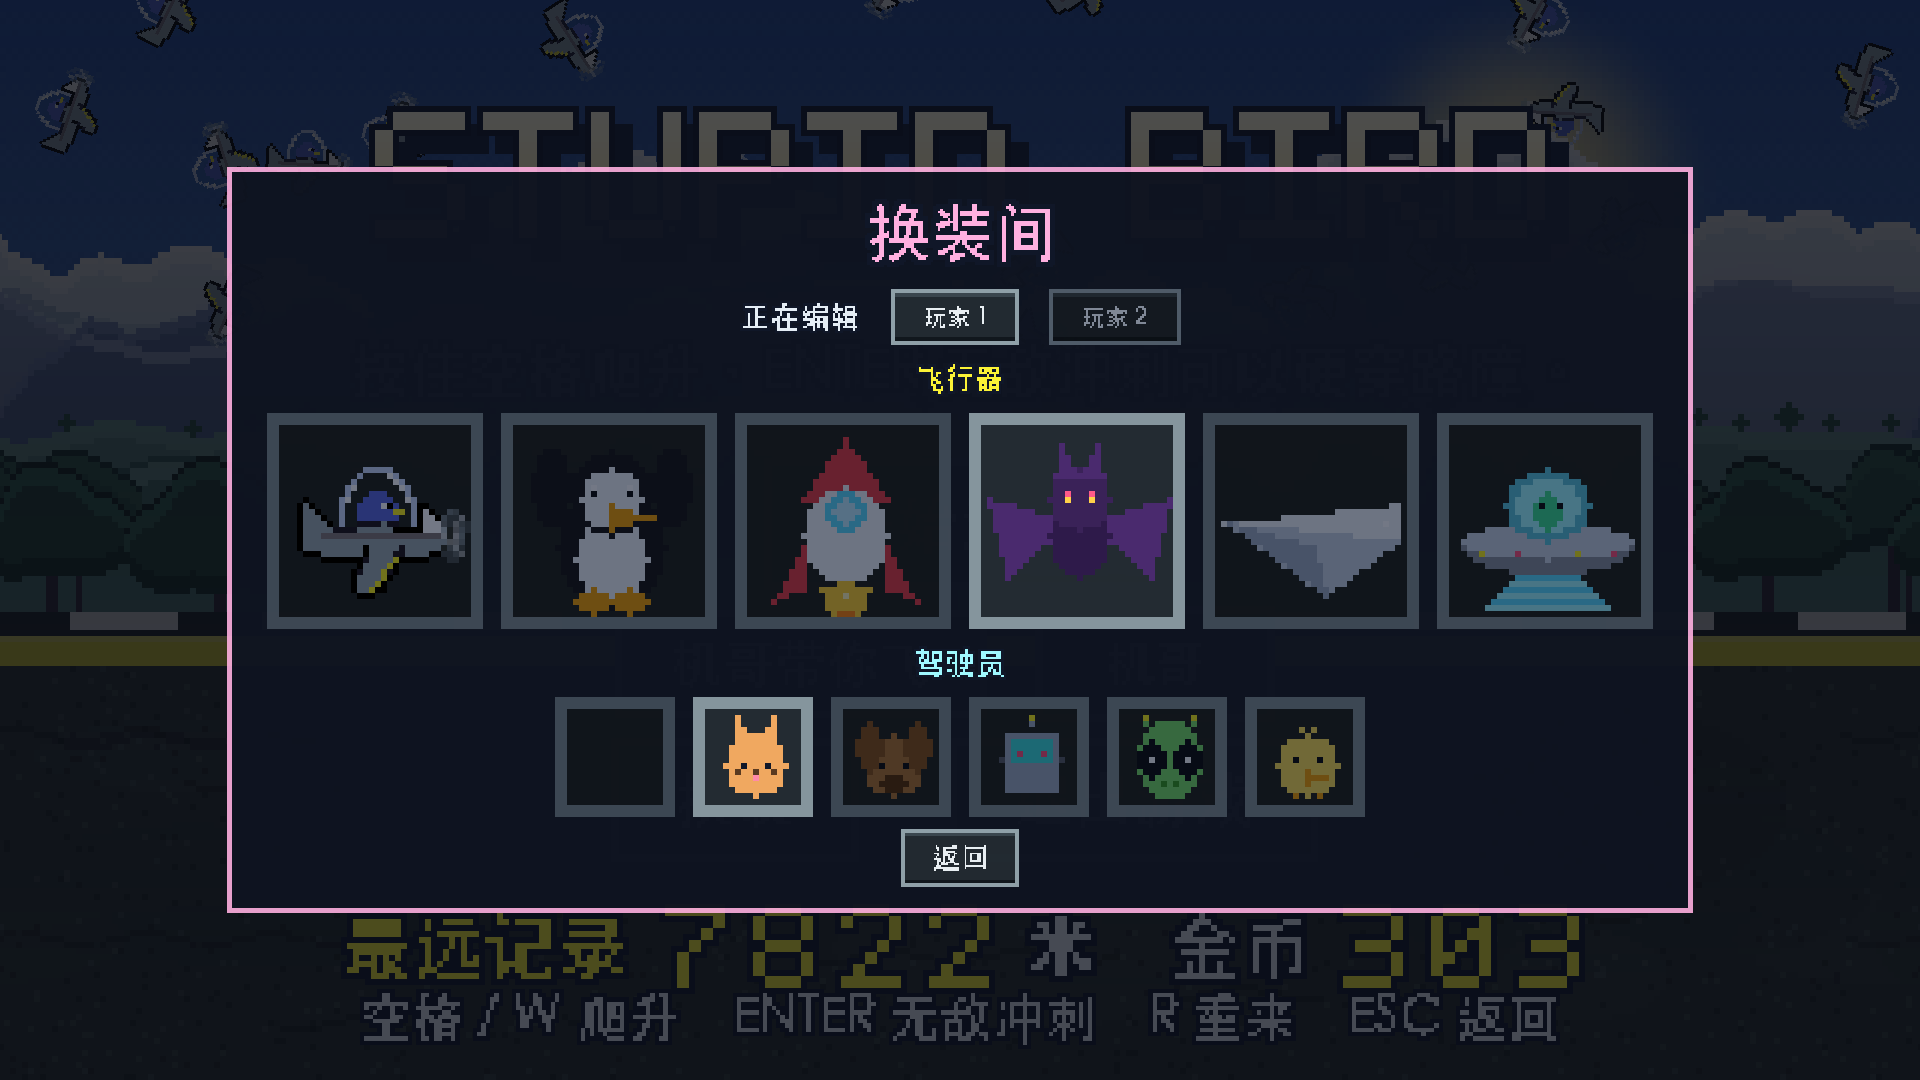
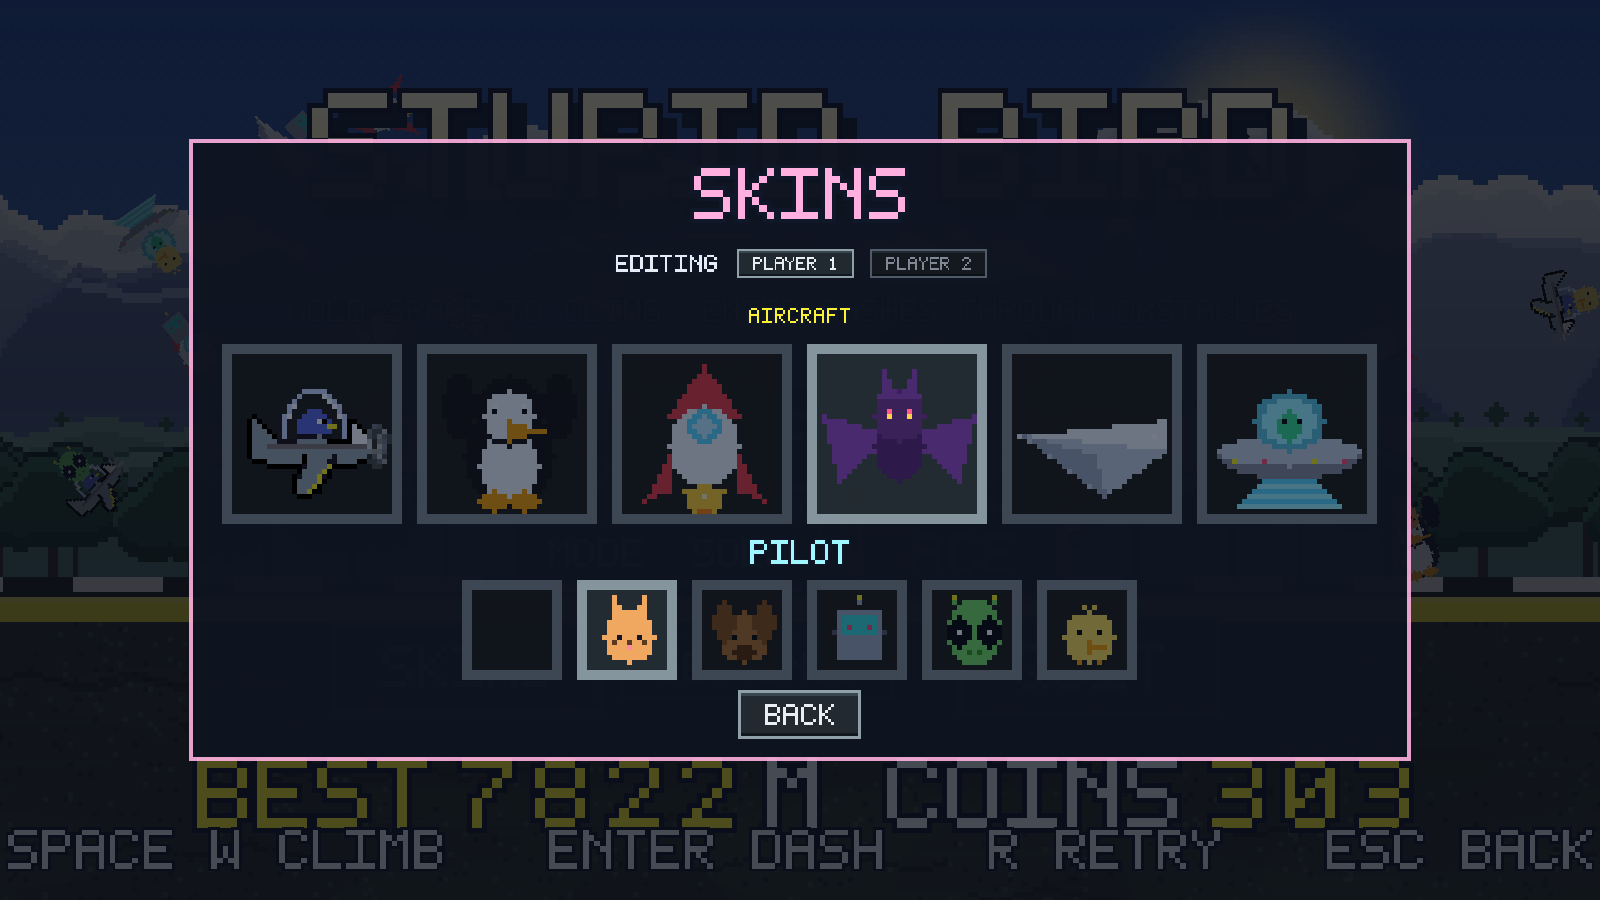
重新截取全部界面截图；README 与 CHANGELOG 改为中性表述
截图
  九张全部按当前版本重截：开始菜单（英文）、开局、无敌冲刺、结算、
  六个世界拼图、双人合作、皮肤面板、道具与连击、双人分屏
  反映了这一版的界面变化：连击与道具移到左下角（不再压住事件横幅）、
  两条能量条各挂 P1/P2 编号牌、皮肤面板、英文界面

README
  删掉「开发中修掉的坑」整节，以及若干以复盘口吻写的小节
  保留的小节改成中性标题与行文（如「金币的走廊范围」「天空为什么放在世界里」）

CHANGELOG
  v0.9.1 的两条修复改为陈述事实，去掉改动过程的叙述

diff --git a/README.md b/README.md
@@ -65,7 +65,7 @@
 
 **提前量**是机哥最关键的改动：不是盯着"现在最近的那根柱子"，而是按当前速度算
 "再过 lookahead 秒我会飞到哪"，据此选目标。飞行器升力很强、但降下来只能靠重力，
-所以必须提前开始改高度 —— 以前它永远在追着缝隙跑，看起来就很笨。
+所以必须提前开始改高度，否则会一直追着缝隙跑。
 
 机哥头顶挂的是 **AI** 标志（双人模式才是 P2）。真人倒地时它会进入「认真模式」，
 有概率跳过下一次失误 —— 这就是"臭人机偶尔也能把人救回来"的来源。
@@ -252,9 +252,9 @@ export_presets.cfg      Windows / macOS 导出预设
 
 ## 实现要点
 
-几个值得说明的设计决定，都是踩过坑之后改的。
+几个值得说明的设计决定。
 
-### 视差为什么没用内置的 `Parallax2D`
+### 视差为什么自己实现
 
 `Parallax2D` 工作在 `CanvasLayer` 的**屏幕空间**里。本作的地平线必须和地面碰撞面在**世界坐标**中永远对齐，而相机是垂直钉死的——用内置节点会出现山脊和地面错位、缝隙处露出天空。
 
@@ -264,7 +264,7 @@ export_presets.cfg      Windows / macOS 导出预设
 position.x = camera_center.x * (1.0 - scroll_factor) + auto_offset
 ```
 
-另外一个容易踩的坑：铺砖位置必须用 `camera.get_screen_center_position()`，**不能用 `camera.global_position`**。后者不含 offset / 平滑 / drag 的影响，曾经导致画面左侧整块图层缺失。
+铺砖位置必须用 `camera.get_screen_center_position()`，**不能用 `camera.global_position`**。后者不含 offset / 平滑 / drag 的影响，否则画面左侧会缺一整块图层。
 
 ### 无限地面
 
@@ -288,7 +288,7 @@ position.x = camera_center.x * (1.0 - scroll_factor) + auto_offset
 
 `process_mode = PROCESS_MODE_ALWAYS` 让结算面板暂停整棵树时音乐照常。
 
-### 金币为什么一定要算走廊
+### 金币的走廊范围
 
 最早金币是「固定铺在路障前方 260 像素」，5 枚跨度 600 像素，尾巴直接扎进柱子里——那几枚金币看得见、吃不到，而且玩家为了够到它们会主动撞柱。
 
@@ -302,7 +302,7 @@ capacity = int(width / 间距) + 1        # 放不下就少放，绝不超过走
 
 走廊宽度随速度变化（间隔按时间算，速度一变间隔就变），所以金币数量是**自适应**的：慢的时候 2 枚，快的时候 4~5 枚，但永远在两柱之间的空气里。
 
-### 无敌冲刺为什么不改碰撞层
+### 无敌冲刺的判定方式
 
 最直觉的做法是冲刺时把玩家的 `collision_layer` 改掉——但金币是靠玩家的 layer 1 来判定的，动了碰撞层会连金币一起废掉。所以判定拦在关卡这一层：
 
@@ -315,19 +315,7 @@ func _on_obstacle_hit() -> void:
 
 金色本身则是一段 `canvas_item` 着色器，把小鸟贴图的**亮度重新映射**成金属色，而不是直接 `modulate` 一个金色——后者会把蓝鸟压成泥巴色。整套效果零额外贴图、零换帧，也不会碰到判定盒。
 
-### 双人模式里玩家之间不能碰撞
-
-二号机刚接进来的时候比一号机快 1.8 倍，原因很反直觉：两个 `CharacterBody2D` 互相碰撞，
-二号机落在了队友头上，而 Godot 会把"脚下这块会动的平台"的速度**叠加**到角色自己的速度上，
-于是复利式加速，两个人越跑越快。
-
-修法是把地面单独放到物理第 2 层，玩家的 `collision_mask` 只认这一层，玩家之间自然互不碰撞。
-路障 / 金币 / 传送门的 `collision_mask` 仍然是 1，判定完全不受影响。
-
-（同一个坑还差点漏掉：一号机的 6 倍像素放大是 `main.tscn` 里的**实例覆盖**，
-`instantiate()` 出来的二号机必须手动抄过来，否则是一只 1 倍大的迷你鸟。）
-
-### 天空为什么从 CanvasLayer 搬进世界
+### 天空为什么放在世界里
 
 天空原本是 `CanvasLayer` 里的一张全屏 `TextureRect` —— 这在单画面下没问题，
 但分屏用的 `SubViewport` 只共享 `world_2d`，**`CanvasLayer` 是属于视口自己的**，
@@ -340,57 +328,7 @@ func _on_obstacle_hit() -> void:
 但它只按**主相机**铺砖，而分屏时子相机会偏出上千像素 —— 所以又加了
 `coverage_margin`，天空左右各多铺 2400 像素。
 
-### 分屏时"靠后那个人看不到东西"
-
-关卡生成、地面回收、视差铺砖，原本全部以**主相机**（两人重心）为基准。
-分屏之后靠后的那名玩家可能离重心一千多像素，于是：
-
-- 视差条带铺不到那么远 → 背景和地面出现空洞
-- `course.gd` 的回收线在重心后方 800 像素，靠后玩家身后的柱子早被回收了
-- 生成线只到重心前方一屏，靠前玩家前方也可能空掉
-
-修法是在 `camera.gd` 上放一个 `view_spread`（分屏时 = 两人间距的一半），
-让 `course.gd` / `road.gd` 按它加宽生成与回收范围；视差条带则统一给了 3000 像素的
-`coverage_margin`。不分屏时 `view_spread` 是 0，行为和以前完全一致。
-
-### 相机的一个漂移 bug
-
-`_focus()` 在"一个存活目标都没有"时返回自己的 `global_position`，
-而调用方随后还会再加一次 `follow_offset` —— 于是相机每帧往右挪一个 `follow_offset`，
-自己一路飘走。修法是返回 `global_position - follow_offset`。
-
-这个 bug 在分屏里才暴露出来（子相机只有一个目标，那人一倒地就触发），
-但其实主相机也有，只是平时一人倒地整局就结算暂停了，看不出来。
-
-### 双人模式里"重心跳变"要平滑
-
-相机跟两名玩家的重心。一个人倒地时，`_focus()` 会把他从存活列表里剔除 ——
-重心于是从"两人平均"瞬间变成"只剩活着的那个"，这是几百像素的瞬移，看起来就是视角被人猛拽了一下。
-
-第一版用的是阈值法（跳变超过 150 像素才平滑）。加了 x 轴身位偏移之后这个阈值就失效了：
-一个人倒地时重心只会挪**半个身位 ≈ 85 像素**，刚好落在阈值以下，于是照样瞬移。
-
-现在改成**始终对重心做一阶低通**（`FOCUS_SMOOTH = 13`），不再有阈值可漏。
-关键区别是：平滑的是**目标点**而不是相机自身，所以稳态只是一个固定的小偏移
-（最高速时 `v / 13 ≈ 76` 像素），不会像早期那样累积成几千像素的滞后。
-
-实测：倒地 + 复活整个过程的相机单帧最大位移 **11.00 像素**，和稳态巡航一模一样
-（660 px/s ÷ 60 = 11.0），也就是说过渡在帧级别上完全看不出来。
-
-### 无敌判定只拦一处会漏
-
-原来"无敌冲刺期间不判死"是写在 `course._on_obstacle_hit()` 里的。
-加了陨石雨事件之后这条路就漏了 —— 陨石是 `events` 直接发信号给 `main` 的，根本不经过 `course`。
-现在判定挪到 `main._on_player_hit()` 的开头，所有伤害来源都从这里过。
-
-### 皮肤的图集必须是原生分辨率
-
-飞行器是 64x64 的 4 帧图集，视觉上那层 6 倍放大在 `main.tscn` 的实例上（和原来的
-`bird_blue.png` 一致）。第一次生成时顺手用了 `save()`，它会把图放大 6 倍存成 384x384，
-而引擎仍按 32 像素切图 —— 结果只切到左上角一小块，换完皮肤**整只鸟直接不见了**。
-所以 `gen_skins.py` 里专门分了 `save_raw()`：图集和驾驶员原生存盘，只有菜单预览方块才放大。
-
-### 开始界面为什么是 25 只真物理小鸟
+### 开始界面的 25 只小鸟
 
 原来只有一只贴图小鸟做匀速正弦上下浮动——一眼就能看出是个来回播的动画。现在换成 25 只 `RigidBody2D`：出生在画面之上（`y` 全为负，是真的"从天而降"），随机初速和自转，落到一块**上下往复的碰撞地面**上。
 
@@ -435,27 +373,6 @@ python tools/gen_powerups.py
 - **中文点阵**：Godot 默认字体不含中文字形，直接写中文会变豆腐块。这里用系统黑体渲染成 12/16px 位图再阈值二值化，笔画被压成硬边像素，和背景是同一套颗粒。
 - **「哇哦」是人声合成**：脉冲串当声门源，过三个时变共振峰滤波器，元音从 /w/ 滑到 /a/ 再收到 /ʊ/，音高先扬后抑加颤音。比采样更贴 8bit 的机械感。仓库里另附一版 TTS 念的（`sfx_wow_tts.wav`），换风格只需改 `audio.gd` 一行。
 
-
-## 开发中修掉的坑
-
-用「自动驾驶 bot」做回归测试时挖出来的，都是真问题：
-
-- **旋转碰撞体**：小鸟俯仰原本改的是整个 `CharacterBody2D.rotation`，竖直爬升时判定盒从 156×73 变成 73×156，实际判定高度凭空翻倍。改成只转贴图。
-- **`.tscn` 的 `sub_resource` 在所有实例间共享**：每根柱子调整自己的碰撞盒尺寸时，把其他所有路障的一起改了，判定框和看到的图形完全对不上。修法是在 `_ready` 里 `duplicate()`。
-- **相机平滑滞后**：`position_smoothing_speed = 2.0` 配 10000 像素/秒的速度上限，稳态滞后高达 5000 像素，主角直接飞出屏幕。
-- **关卡不可通过**：相邻路障的目标高度落差曾达到 323 像素，而间隔只有 480 像素，物理上躲不掉。现在生成器限制相邻目标落差不超过 250 像素。
-- **音频循环点算错**：Godot 默认把 WAV 压成 QOA，`data.size()` 是压缩字节数而非 PCM 帧数，直接换算会把循环点算成总长的 40%。
-- **退出时资源泄漏**：只有**退出瞬间仍在播放**的音频会漏（已用最小复现工程确认是引擎关机时序）。接管 `WM_CLOSE_REQUEST` 后干净退出。
-- **金币嵌进柱子**：见上面「金币为什么一定要算走廊」。
-- **横版跑酷里的左右键**：`A`/`D` 绑了加减速，但玩家感知不到任何"左右"，只会以为游戏坏了。删掉动作和对应的按键提示贴图，水平速度改成恒定值。
-- **按钮没碰它也发黄光**：`TextureButton` 的 `texture_focused` 被设成了 hover 贴图，而场景加载时第一个 `focus_mode = ALL` 的控件会**自动抢到焦点**——于是"开始游戏"和"再来一次"一进画面就是黄的，鼠标根本没在上面。删掉 `texture_focused`（留空会回落到 `texture_normal`），现在黄光严格等价于 `is_hovered()`。
-- **装饰鸟不像活的**：开始界面原本用一只贴图做匀速正弦浮动。换成 25 只真刚体之后顺带发现，地面**只挪碰撞体不挪贴图**会让小鸟停在半空；两者必须用同一个偏移量驱动。
-- **站在队友头上会越跑越快**：双人模式里两个 `CharacterBody2D` 互相碰撞触发了"移动平台速度继承"。见上面「双人模式里玩家之间不能碰撞」。
-- **换完皮肤小鸟不见了**：图集被多放大了一次（384x384 当成 64x64 切）。见上面「皮肤的图集必须是原生分辨率」。
-- **陨石绕过了无敌判定**：伤害判定原来只在 `course` 里，事件系统的陨石走的是另一条路。见上面「无敌判定只拦一处会漏」。
-- **云层糊成一条灰杠**：`gen_worlds.py` 里 22 团 rx=78 的椭圆铺满 320 宽会互相融成实心带，再叠"底部压暗"就变成一条硬边横杠。改成更小更疏的云团 + 连续渐变。
-
-> 注意：**改动 `project.godot` 的输入映射时，先关掉 Godot 编辑器**。编辑器在退出时会用它内存里的旧设置回写 `project.godot` 和当前打开的场景文件——实测把新加的 `dash` 动作和 `player.tscn` 上的材质一起冲掉了。
 
 ## 许可
 

diff --git a/CHANGELOG.md b/CHANGELOG.md
@@ -23,12 +23,10 @@
 
 - **金币会刷进柱子**。`obstacle.position.x` 是柱子的**左边缘**
   （贴图和判定盒都是 `centered = false`，从节点原点往右铺 384 宽），
-  而算金币走廊时用的是 `± HALF_PILLAR(192)`，等于把它当成了中心 ——
-  左边界整整少算 192 像素，金币于是刷进上一根柱子的右半边。
-  实测 20 枚里 7 枚嵌进柱子，最深 106 像素
-- 道具「金币爆发」撒出的金币同样会落进柱子（这条路径原本完全没做检查）。
-  新增 `push_out_of_pillars()`，并且**反复过直到稳定** ——
-  只过一遍的话，从 A 柱推出来可能正好落进 B 柱，反而嵌得更深
+  而算金币走廊时用的是 `± HALF_PILLAR(192)`，等于把它当成了中心，
+  左边界少算 192 像素。现在走廊按左右边缘计算
+- 道具「金币爆发」撒出的金币改为经过 `push_out_of_pillars()` 校正，
+  反复迭代直到稳定（从一根柱子推出来可能正好落进另一根）
 
 ---
 
@@ -40,9 +38,8 @@
   —— 之前只做了 UI 文案，横幅漏了，英文界面下会蹦出中文
 - 修掉**连击 / 道具与事件横幅重叠**：横幅收窄到 `x540~1380`，
   连击和道具移到左下角（既不挡飞行器，也和横幅完全不重叠）
-- 「换装间」更名为「**皮肤**」（英文 `HANGAR` → `SKINS`），
-  并把代码注释、README 叙述、文件名、节点名、变量名、资源 id 全部统一到 `skins`，
-  全仓库搜不到 `dressup` 残留
+- 皮肤面板更名为「**皮肤**」（英文 `HANGAR` → `SKINS`），
+  代码注释、README、文件名、节点名、变量名与资源 id 统一到 `skins`
 
 ---
 
